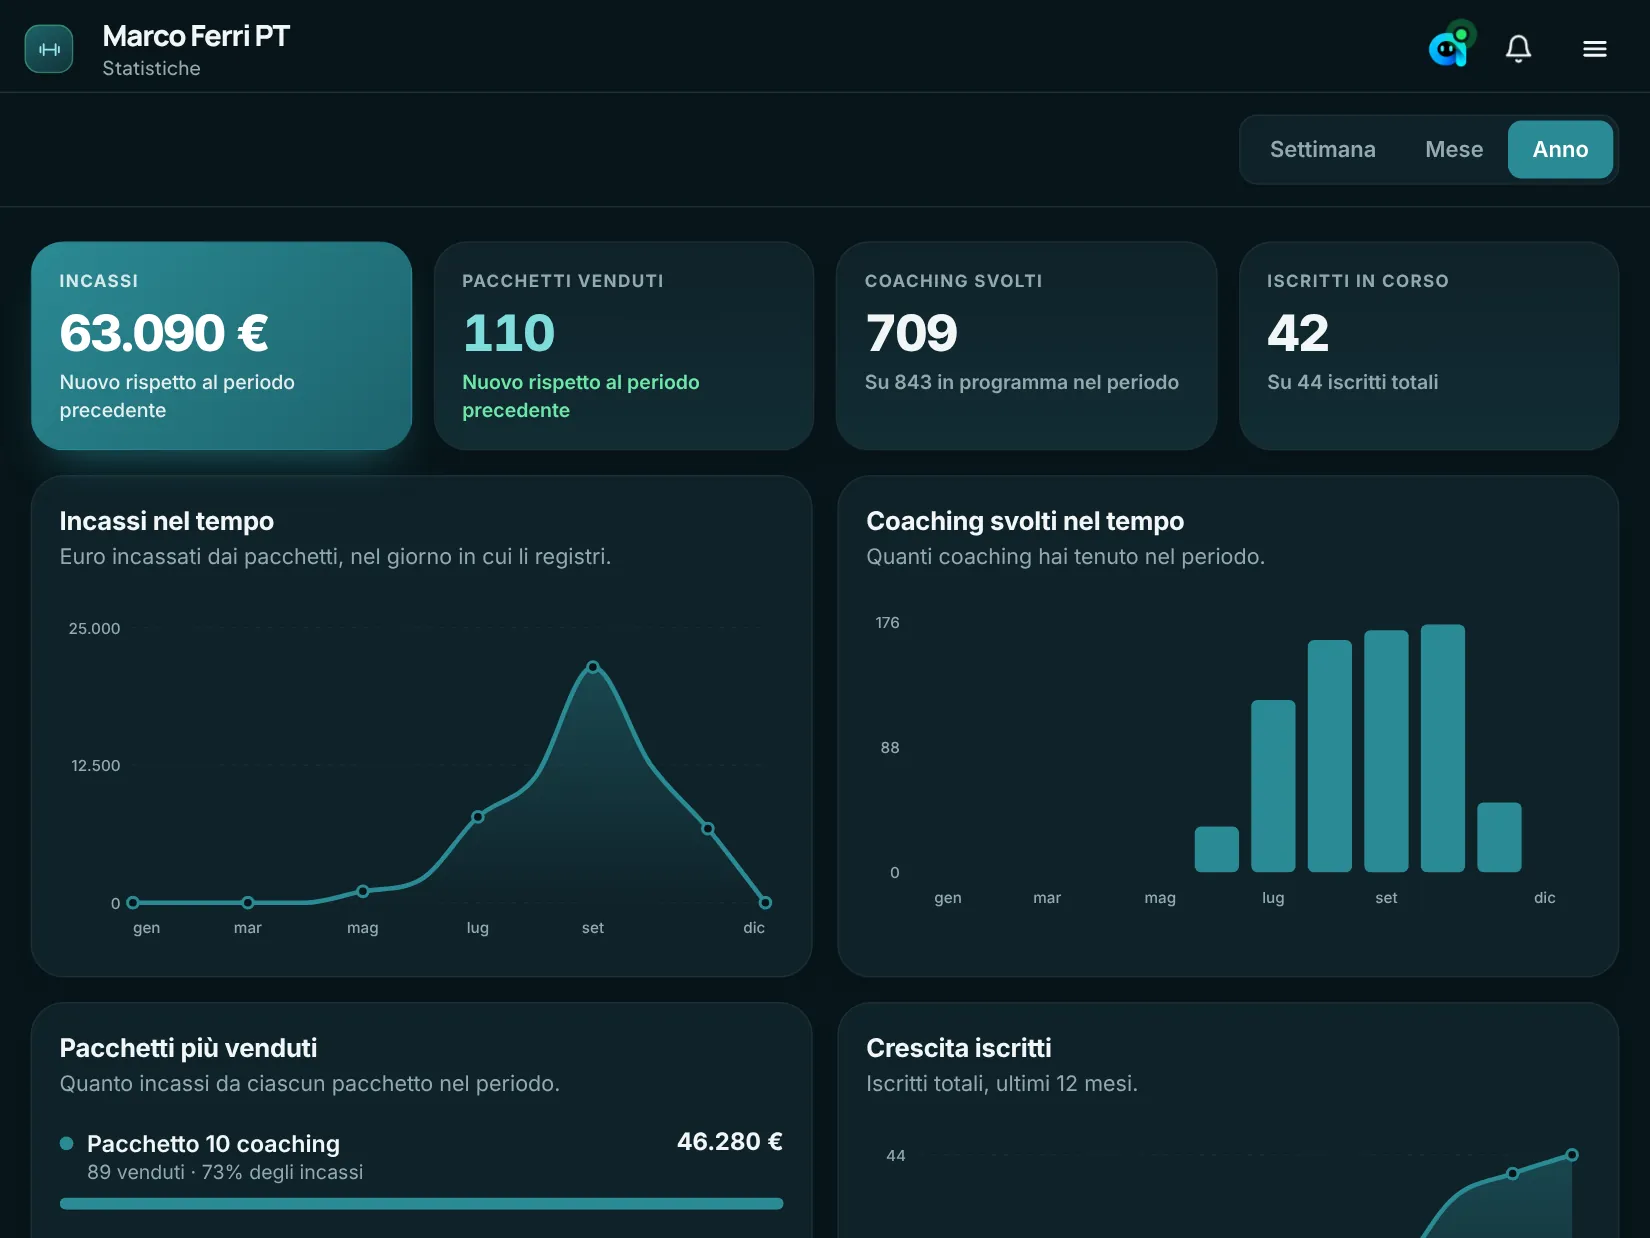
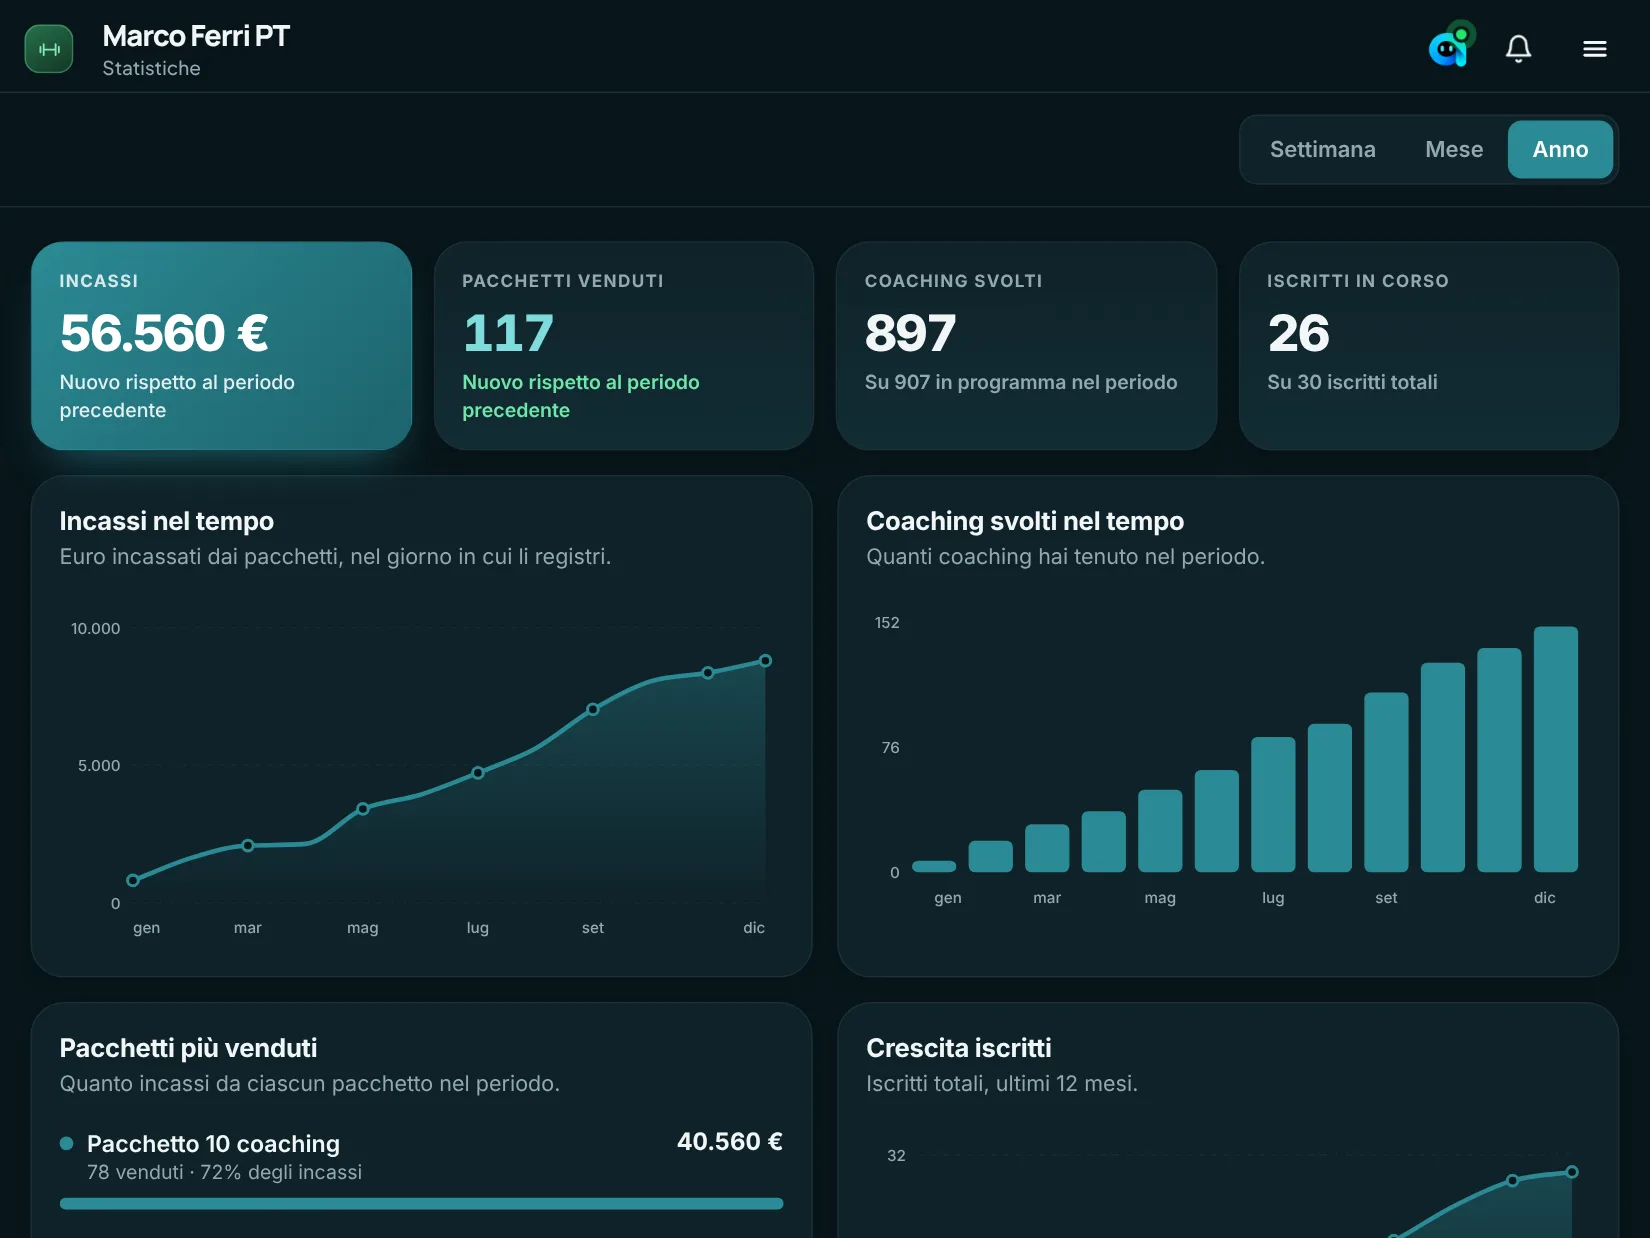
Landing PT: statistiche d'esempio sempre in crescita (incassi, coaching, iscritti)
Claude-Session: https://claude.ai/code/session_01MPSQ5iE5ceA37JhcNrT9qy

diff --git a/public/provahtml/index.html b/public/provahtml/index.html
@@ -867,7 +867,7 @@ var G={'Iscritti':'E qui ci sono i tuoi *iscritti*, con i coaching che restano a
 K.forEach(function(x){x.v.forEach(function(v){if(G[v.n])v.d=G[v.n]})});
 (function(){var z=document.querySelector('#pfCap .sz'),bb=z.parentNode;Object.keys(G).forEach(function(n){var e=document.createElement('span');e.className='sz';e.setAttribute('aria-hidden','true');e.innerHTML=G[n].replace(/\*([^*]+)\*/g,'<b>$1</b>');bb.insertBefore(e,z)});bb.removeChild(z)})();
 var IMG={"h": [["/provahtml/img/h0-t.webp?v=3", "/provahtml/img/h0-p.webp?v=3"], ["/provahtml/img/h1-t.webp?v=3", "/provahtml/img/h1-p.webp?v=3"], ["/provahtml/img/h2-t.webp?v=3", "/provahtml/img/h2-p.webp?v=3"], ["/provahtml/img/h3-t.webp?v=3", "/provahtml/img/h3-p.webp?v=3"], ["/provahtml/img/h4-t.webp?v=3", "/provahtml/img/h4-p.webp?v=3"]], "m": [["/provahtml/img/m0-t.webp?v=3", "/provahtml/img/m0-p.webp?v=3"], ["/provahtml/img/m1-t.webp?v=3", "/provahtml/img/m1-p.webp?v=3"], ["/provahtml/img/m2-t.webp?v=3", "/provahtml/img/m2-p.webp?v=3"], ["/provahtml/img/m3-t.webp?v=3", "/provahtml/img/m3-p.webp?v=3"], ["/provahtml/img/m4-t.webp?v=3", "/provahtml/img/m4-p.webp?v=3"]], "d": [["/provahtml/img/d0-t.webp?v=3", "/provahtml/img/d0-p.webp?v=3"], ["/provahtml/img/d1-t.webp?v=3", "/provahtml/img/d1-p.webp?v=3"], ["/provahtml/img/d2-t.webp?v=3", "/provahtml/img/d2-p.webp?v=3"], ["/provahtml/img/d3-t.webp?v=3", "/provahtml/img/d3-p.webp?v=3"], ["/provahtml/img/d4-t.webp?v=3", "/provahtml/img/d4-p.webp?v=3"]], "c": [["/provahtml/img/c0-t.webp?v=3", "/provahtml/img/c0-p.webp?v=3"], ["/provahtml/img/c1-t.webp?v=3", "/provahtml/img/c1-p.webp?v=3"], ["/provahtml/img/c2-t.webp?v=3", "/provahtml/img/c2-p.webp?v=3"], ["/provahtml/img/c3-t.webp?v=3", "/provahtml/img/c3-p.webp?v=3"]]};
-IMG.p=[["/provahtml/img/pd4-t.webp?v=2", "/provahtml/img/pd4-p.webp?v=2"], ["/provahtml/img/pd0-t.webp?v=2", "/provahtml/img/pd0-p.webp?v=2"], ["/provahtml/img/pd1-t.webp?v=2", "/provahtml/img/pd1-p.webp?v=2"], ["/provahtml/img/pd2-t.webp?v=2", "/provahtml/img/pd2-p.webp?v=2"], ["/provahtml/img/pd3-t.webp?v=2", "/provahtml/img/pd3-p.webp?v=2"]];
+IMG.p=[["/provahtml/img/pd4-t.webp?v=3", "/provahtml/img/pd4-p.webp?v=3"], ["/provahtml/img/pd0-t.webp?v=2", "/provahtml/img/pd0-p.webp?v=2"], ["/provahtml/img/pd1-t.webp?v=2", "/provahtml/img/pd1-p.webp?v=2"], ["/provahtml/img/pd2-t.webp?v=2", "/provahtml/img/pd2-p.webp?v=2"], ["/provahtml/img/pd3-t.webp?v=3", "/provahtml/img/pd3-p.webp?v=3"]];
 var TI={p:'<path d="M6.5 6.5v11M17.5 6.5v11M3.5 9v6M20.5 9v6M6.5 12h11"/>',h:'<circle cx="6" cy="6" r="3"/><circle cx="6" cy="18" r="3"/><path d="M20 4L8.1 15.9M14.5 14.5L20 20M8.1 8.1L12 12"/>',c:'<ellipse cx="14.5" cy="9.5" rx="5.5" ry="7" transform="rotate(40 14.5 9.5)"/><path d="M10.6 13.4L4 20"/><circle cx="19" cy="19" r="1.6"/>',m:'<path d="M9 3h6v6h6v6h-6v6H9v-6H3V9h6z"/>',d:'<path d="M3 11l9-8 9 8v9a1 1 0 0 1-1 1h-4.5v-6h-7v6H4a1 1 0 0 1-1-1z"/>'};var tabs=document.getElementById('pfTabs'),set=document.getElementById('pfSet'),nav=document.getElementById('pfNav'),cap=document.getElementById('pfCap');if(!tabs)return;
 var cs=-1,cv=-1,busy=null,auto=null,manual=false,DUR=7000;
 K.forEach(function(x,i){var b=document.createElement('button');b.type='button';b.innerHTML='<svg class="ti" viewBox="0 0 24 24" fill="none" stroke="currentColor" stroke-width="1.9" stroke-linecap="round" stroke-linejoin="round" aria-hidden="true">'+TI[x.k]+'</svg><span class="tf">'+x.l+'</span>';b.setAttribute('aria-label',x.l);b.setAttribute('role','tab');b.setAttribute('aria-pressed','false');b.onclick=function(){manual=false;goS(i)};tabs.appendChild(b)});
